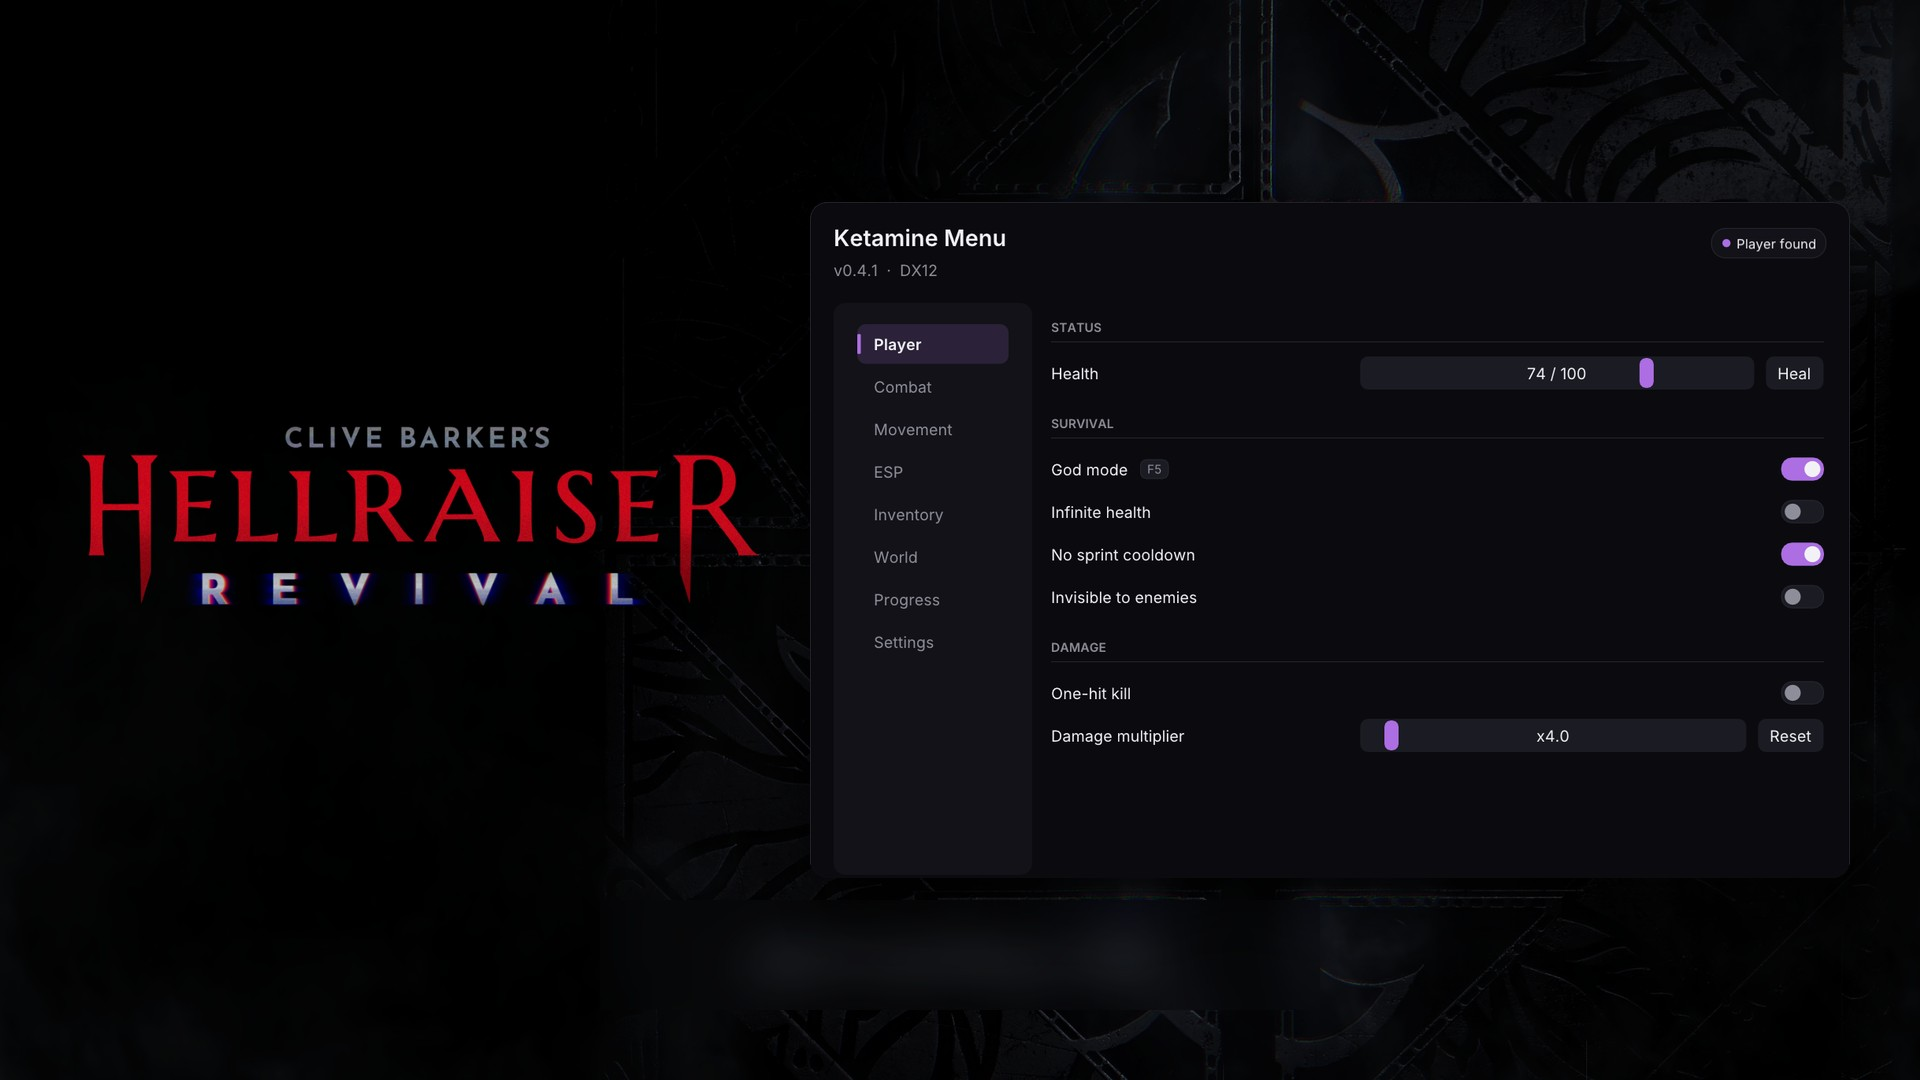
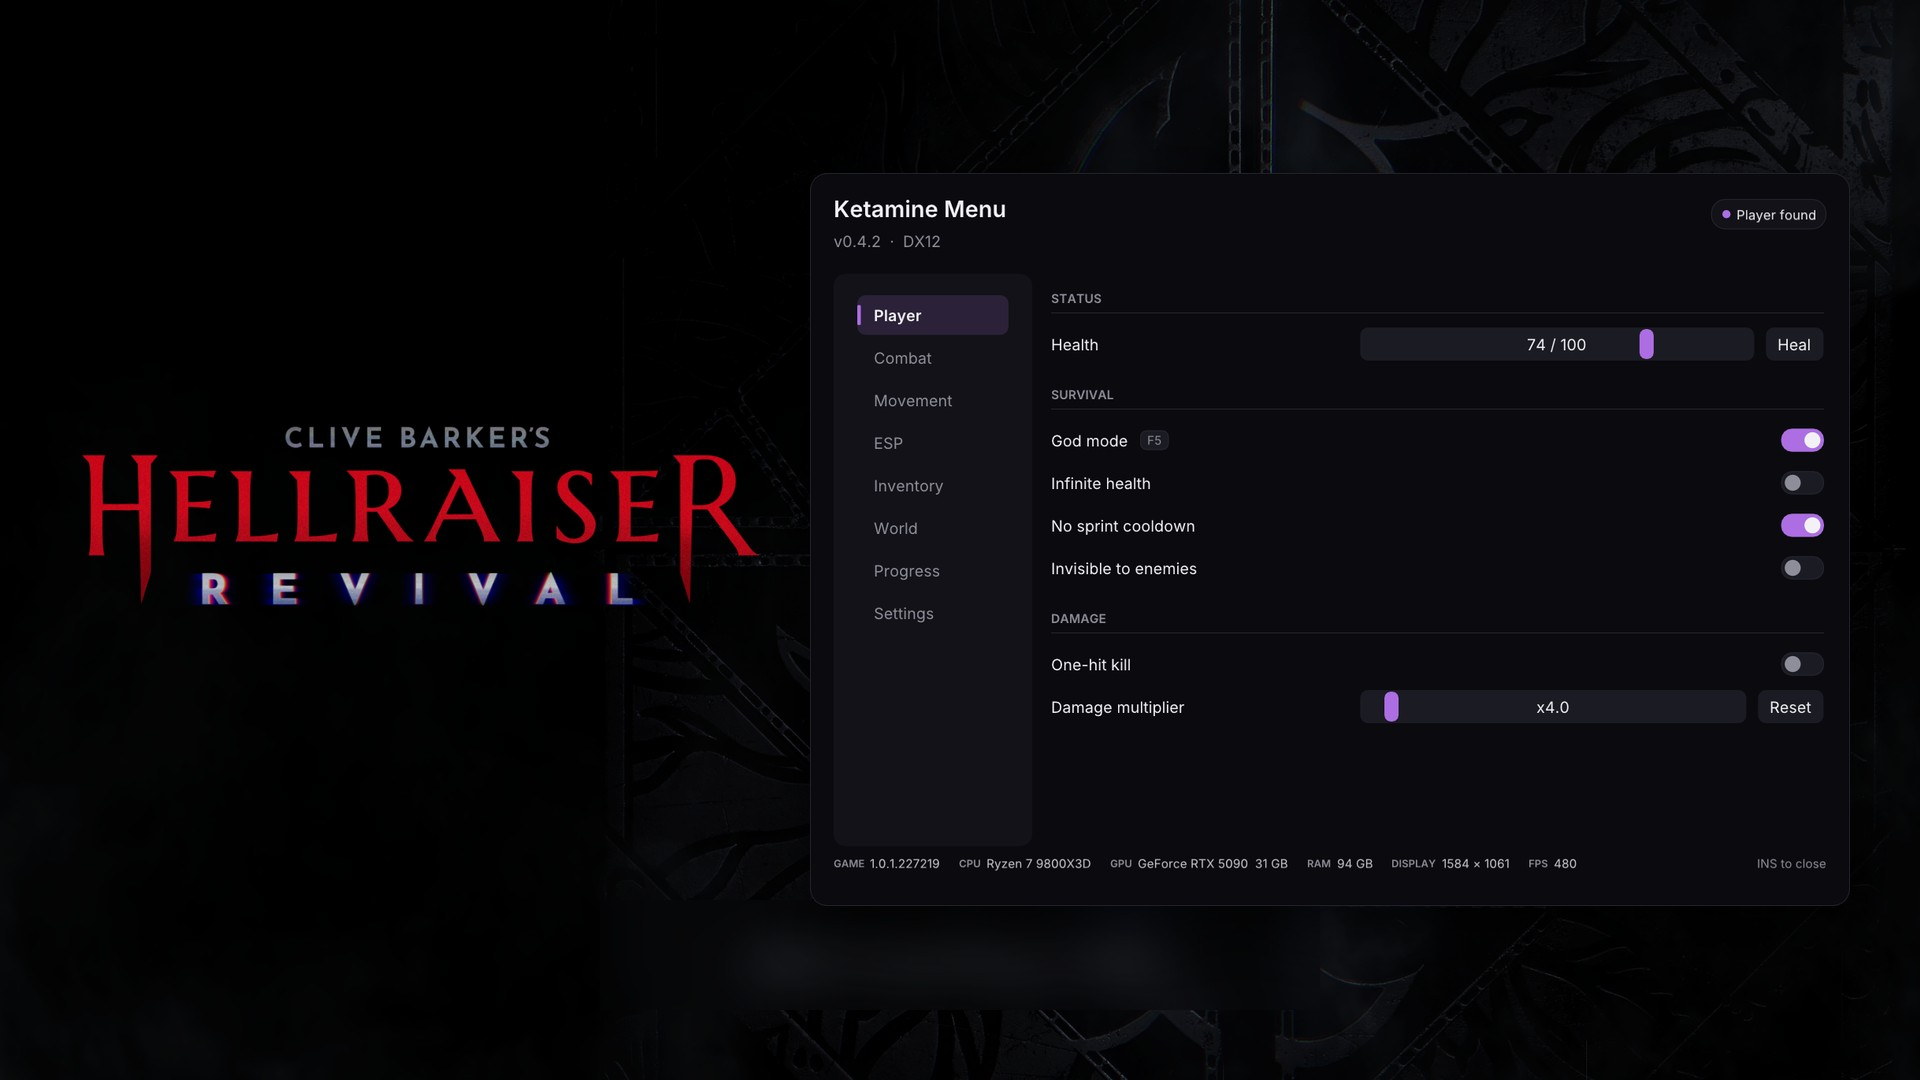
Menu footer: game version, CPU, GPU, RAM, display and FPS (v0.4.2)
The footer now reads like a spec line with short hardware names, and the
README screenshots show it.

diff --git a/src/menu.cpp b/src/menu.cpp
@@ -37,7 +37,7 @@ std::atomic<int> g_binding{kNotBinding};
 float g_scale = 0; // 0 = automatic, from the screen height
 float g_appliedScale = -1;
 int g_tab = 0;
-std::string g_machine; // "CPU · RAM"; the GPU comes from the overlay
+std::string g_game, g_cpu, g_ram; // footer; the GPU comes from the overlay
 
 struct Toast {
     std::string text;
@@ -72,20 +72,33 @@ std::string KeyName(unsigned vk)
     return km::Utf8(std::wstring(buf, size_t(n)));
 }
 
-// "AMD Ryzen 7 7800X3D 8-Core Processor  ·  32 GB RAM"
-std::string MachineInfo()
+// Drops vendor boilerplate: "AMD Ryzen 7 9800X3D 8-Core Processor" -> "Ryzen 7 9800X3D".
+std::string ShortHardware(std::string s)
+{
+    for (const char* noise : {"(R)", "(TM)", "(tm)", "AMD ", "Intel ", "NVIDIA ", " Processor", " CPU", " with Radeon Graphics"})
+        for (size_t p; (p = s.find(noise)) != std::string::npos;) s.erase(p, strlen(noise));
+    if (auto core = s.find("-Core"); core != std::string::npos) { // " 8-Core"
+        size_t start = s.rfind(' ', core);
+        s.erase(start == std::string::npos ? 0 : start, core + 5 - (start == std::string::npos ? 0 : start));
+    }
+    if (auto at = s.find(" @"); at != std::string::npos) s.resize(at);
+    while (!s.empty() && s.back() == ' ') s.pop_back();
+    while (!s.empty() && s.front() == ' ') s.erase(0, 1);
+    return s;
+}
+
+void ReadHardware()
 {
     wchar_t cpu[128] = {};
     DWORD size = sizeof(cpu);
     RegGetValueW(HKEY_LOCAL_MACHINE, L"HARDWARE\\DESCRIPTION\\System\\CentralProcessor\\0", L"ProcessorNameString",
                  RRF_RT_REG_SZ, nullptr, cpu, &size);
-    std::string name = km::Utf8(cpu);
-    while (!name.empty() && name.back() == ' ') name.pop_back();
+    g_cpu = ShortHardware(km::Utf8(cpu));
     MEMORYSTATUSEX mem{sizeof(mem)};
     GlobalMemoryStatusEx(&mem);
     char ram[32];
-    snprintf(ram, sizeof(ram), "%.0f GB RAM", double(mem.ullTotalPhys) / (1ull << 30));
-    return name + "  ·  " + ram;
+    snprintf(ram, sizeof(ram), "%.0f GB", double(mem.ullTotalPhys) / (1ull << 30));
+    g_ram = ram;
 }
 
 ImFont* LoadFont(int id)
@@ -724,21 +737,35 @@ void Sidebar()
     ImGui::EndChild();
 }
 
+// Spec line: GAME 1.0.1.227219   CPU Ryzen 7 9800X3D   GPU GeForce RTX 5090 32 GB   RAM 64 GB   DISPLAY 2560 × 1440   FPS 144
 void Footer()
 {
-    float s = S(), size = kBaseFont * 0.78f * s;
+    float s = S(), size = kBaseFont * 0.78f * s, labelSize = kBaseFont * 0.66f * s;
     ImDrawList* dl = ImGui::GetWindowDrawList();
     ImVec2 p = ImGui::GetCursorScreenPos();
     float avail = ImGui::GetContentRegionAvail().x;
-    std::string info = g_machine;
-    if (!overlay::GpuName().empty()) info += "  ·  " + overlay::GpuName();
-    char res[48];
-    snprintf(res, sizeof(res), "  ·  %.0f × %.0f", ImGui::GetIO().DisplaySize.x, ImGui::GetIO().DisplaySize.y);
-    info += res;
+    ImGuiIO& io = ImGui::GetIO();
+
+    std::string gpu = overlay::GpuName();
+    for (size_t at; (at = gpu.find("  ·  ")) != std::string::npos;) gpu.replace(at, 5, " ");
+    gpu = ShortHardware(gpu);
+    char display[32], fps[16];
+    snprintf(display, sizeof(display), "%.0f × %.0f", io.DisplaySize.x, io.DisplaySize.y);
+    snprintf(fps, sizeof(fps), "%.0f", io.Framerate);
+    const std::pair<const char*, std::string> items[] = {
+        {"GAME", g_game}, {"CPU", g_cpu}, {"GPU", gpu}, {"RAM", g_ram}, {"DISPLAY", display}, {"FPS", fps}};
+
     std::string hint = KeyName(g_menuKey) + " to close";
     ImVec2 hs = regular->CalcTextSizeA(size, FLT_MAX, 0, hint.c_str());
-    dl->PushClipRect(p, {p.x + avail - hs.x - 24 * s, p.y + size * 2}, true);
-    dl->AddText(regular, size, p, Raw(Muted), info.c_str());
+    float x = p.x, right = p.x + avail - hs.x - 20 * s, labelY = p.y + (size - labelSize) * 0.72f; // baseline-ish alignment with the values
+    dl->PushClipRect(p, {right, p.y + size * 2}, true);
+    for (const auto& [label, value] : items) {
+        if (value.empty()) continue;
+        dl->AddText(bold, labelSize, {x, labelY}, Raw(Muted), label);
+        x += bold->CalcTextSizeA(labelSize, FLT_MAX, 0, label).x + 5 * s;
+        dl->AddText(regular, size, {x, p.y}, Raw(Alpha(Text, 0.82f)), value.c_str());
+        x += regular->CalcTextSizeA(size, FLT_MAX, 0, value.c_str()).x + 16 * s;
+    }
     dl->PopClipRect();
     dl->AddText(regular, size, {p.x + avail - hs.x, p.y}, Raw(Muted), hint.c_str());
     ImGui::Dummy({avail, size});
@@ -781,15 +808,17 @@ void DrawWindow()
 
 } // namespace
 
-void Init(void* dllModule)
+void Init(void* dllModule, const std::string& gameVersion)
 {
     g_module = static_cast<HMODULE>(dllModule);
+    g_game = gameVersion.substr(0, gameVersion.find('_')); // "1.0.1.227219_HellraiserGame_Shipping..."
+    if (g_game.empty() && GetEnvironmentVariableA("KM_PREVIEW", nullptr, 0)) g_game = "1.0.1.227219"; // test host
     g_menuKey = unsigned(cfg::GetInt("Menu", "Key", VK_INSERT));
     g_scale = cfg::GetFloat("Menu", "Scale", 0);
     if (g_scale > 0) g_scale = std::clamp(g_scale, 0.7f, 2.5f);
     g_tab = std::clamp(cfg::GetInt("Menu", "Tab", 0), 0, kTabCount - 1);
     for (int t = 0; t < feat::ToggleCount; t++) g_hotkey[t] = cfg::GetInt("Hotkeys", feat::kToggles[t].key, 0);
-    g_machine = MachineInfo();
+    ReadHardware();
     feat::Init();
 }
 

diff --git a/src/dllmain.cpp b/src/dllmain.cpp
@@ -40,7 +40,7 @@ static void Main(HMODULE self)
     km::Log("winmm forwarding: %s (%ls)", owner && owner != self ? "OK" : "FAILED",
             owner ? ModulePath(owner).c_str() : L"unresolved");
 
-    menu::Init(self); // settings + game-thread tick, before any hook can call into them
+    menu::Init(self, ver); // settings + game-thread tick, before any hook can call into them
     km::Log("Overlay: %s", overlay::Install() ? "hooks installed" : "disabled");
     ue::Init(g_mainThread);
 }

diff --git a/src/menu.h b/src/menu.h
@@ -3,7 +3,7 @@
 
 namespace menu {
 
-void Init(void* dllModule); // settings (menu key, UI scale, hotkeys); the module holds the embedded fonts
+void Init(void* dllModule, const std::string& gameVersion); // settings, hotkeys; the module holds the fonts
 void SetupImGui();          // fonts + theme, right after ImGui::CreateContext()
 void Draw();                // menu (when open) and toasts; between ImGui::NewFrame() and ImGui::Render()
 bool IsOpen();

diff --git a/README.md b/README.md
@@ -135,6 +135,7 @@ out with the reason in a tooltip instead of crashing.
 | Hotkeys | Any switch can get its own key in **Settings → Hotkeys**. Hotkeys work with the menu closed and show a small notification. |
 | Hover | Hover any option to see what it does, or why it is unavailable. |
 | UI scale | Follows your screen resolution; adjust it with the − / + buttons in **Settings**. |
+| Footer | Game version, CPU, GPU, RAM, resolution and FPS at a glance, at the bottom of the menu. |
 | Settings file | Everything is saved to `KetamineMenu.ini` next to the DLL. **Settings → Reset configuration** restores the defaults. |
 
 > [!WARNING]
